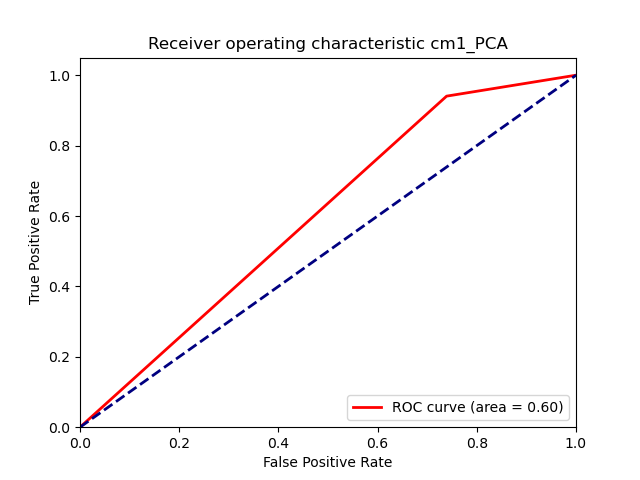
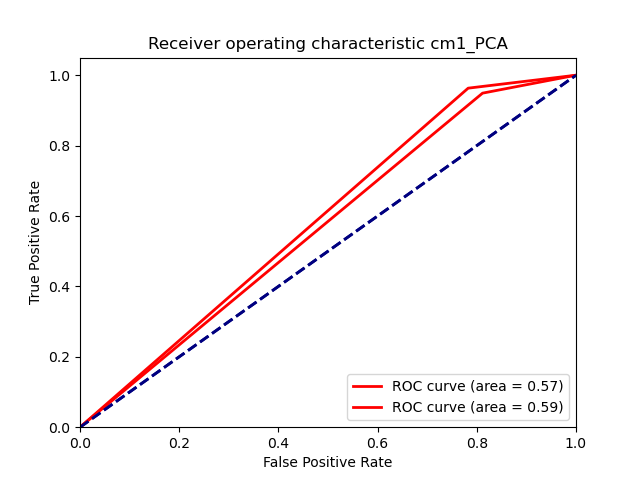
hyperparameter tuning for rf and xgb

Changed region(s): [[0.25, 0.1562, 0.9062, 0.75], [0.5312, 0.7812, 0.9062, 0.875], [0.125, 0.75, 0.25, 0.875]]

diff --git a/models.py b/models.py
@@ -1,0 +1,57 @@
+def findbestestimator(param_grid,estimator,X,y,k=5):
+    from sklearn.model_selection import GridSearchCV
+    clf = GridSearchCV(estimator = estimator, param_grid = param_grid,
+                          cv = k, verbose = 2,scoring='roc_auc')
+    clf.fit(X, y)
+    print("Best parameters set found on development set:")
+    print(clf.best_params_)
+    return clf
+
+
+def xgb(X_train,y_train,X_test):
+    # Fitting XGB-Classifier to the training set
+    from xgboost import XGBClassifier
+    xgb=XGBClassifier()
+    param_grid = {
+        'min_child_weight': [1, 5, 10],
+        'gamma': [0.5, 1, 1.5, 2, 5],
+        'subsample': [0.6, 0.8, 1.0],
+        'colsample_bytree': [0.6, 0.8, 1.0],
+        'max_depth': [3, 4, 5]
+        }
+    
+    #classifier = findbestestimator(param_grid,xgb,X_train,y_train)
+    
+    
+    
+    classifier = XGBClassifier(colsample_bytree=0.8,gamma=5, max_depth= 4, min_child_weight= 1, subsample= 0.6)
+    classifier.fit(X_train, y_train)
+    # Predicting the Test set results
+    y_pred = classifier.predict(X_test)
+    return y_pred
+
+def rf(X_train,y_train,X_test):
+    from sklearn.ensemble import RandomForestClassifier
+    rf = RandomForestClassifier()
+    param_grid = {
+    'bootstrap': [True],
+    'max_depth': [80, 90, 100, 110],
+    'max_features': [2, 3],
+    'min_samples_leaf': [3, 4, 5],
+    'min_samples_split': [8, 10, 12],
+    'n_estimators': [100, 200, 300, 400, 500, 800, 1000]
+    }
+    '''
+    classifier = findbestestimator(param_grid,rf,X_train,y_train)
+    
+    '''
+    classifier = RandomForestClassifier(bootstrap=True, max_depth=80, max_features=2, min_samples_leaf=3, min_samples_split=8,n_estimators=200,random_state = 0)
+    classifier.fit(X_train, y_train)
+    #To quickly classify
+    
+    # Predicting the Test set results
+    y_pred = classifier.predict(X_test)
+    return y_pred
+
+
+    

diff --git a/pca_rf_gridsearch.py b/pca_rf_gridsearch.py
@@ -3,7 +3,7 @@ import numpy as np
 import pandas as pd
 
 # Importing the dataset
-dataset = pd.read_csv('cm1.csv')
+dataset = pd.read_csv('data/kc1.csv')
 X = dataset.iloc[:,:-1].values
 y = dataset.iloc[:, 21].values
 
@@ -18,21 +18,7 @@ sc = StandardScaler()
 X = sc.fit_transform(X)
 
 from sklearn.ensemble import RandomForestClassifier
-from sklearn.model_selection import GridSearchCV
-param_grid = {
-    'bootstrap': [True],
-    'max_depth': [80, 90, 100, 110],
-    'max_features': [2, 3],
-    'min_samples_leaf': [3, 4, 5],
-    'min_samples_split': [8, 10, 12],
-    'n_estimators': [100, 200, 300, 400, 500, 800, 1000]
-}
 
-rf = RandomForestClassifier()
-clf = GridSearchCV(estimator = rf, param_grid = param_grid,
-                          cv = 3, n_jobs = -1, verbose = 2)
 
-clf.fit(X, y)
 
-print("Best parameters set found on development set:")
-print(clf.best_params_)
+

diff --git a/final.py b/final.py
@@ -1,11 +1,14 @@
 import sys
 from preprocesser import preprocess
 from plotter import plotter
-from xgb_init import xgb
+from models import xgb,rf
 from metrics import evaluate
 def main():
     X_train,X_test,y_test,y_train =preprocess(sys.argv[1])
-    y_pred = xgb(X_train,y_train,X_test,y_test)
+    y_pred = xgb(X_train,y_train,X_test)
+    plotter(y_test,y_pred)
+    cm,fscore,a=evaluate(y_test,y_pred)
+    y_pred = rf(X_train,y_train,X_test)
     plotter(y_test,y_pred)
     cm,fscore,a=evaluate(y_test,y_pred)
 
